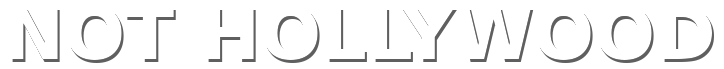
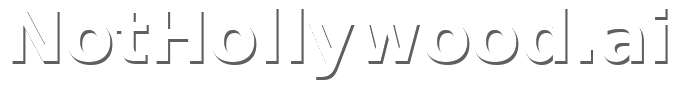
Watermark: NotHollywood.ai wordmark

diff --git a/generate_watermark.py b/generate_watermark.py
@@ -19,7 +19,7 @@ def build_watermark(out: Path = Path(__file__).parent / "watermark.png") -> None
     font_path = "/usr/share/fonts/truetype/dejavu/DejaVuSans-Bold.ttf"
     font = ImageFont.truetype(font_path, 72)
 
-    text = "NOT HOLLYWOOD"
+    text = "NotHollywood.ai"
     bbox = d.textbbox((0, 0), text, font=font)
     tw = bbox[2] - bbox[0]
     th = bbox[3] - bbox[1]
